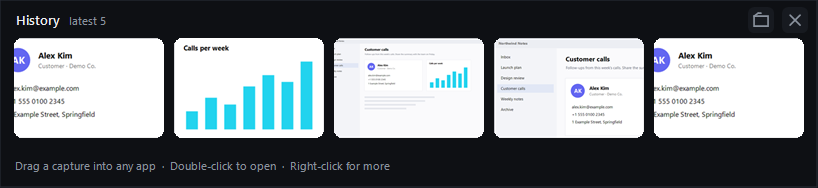
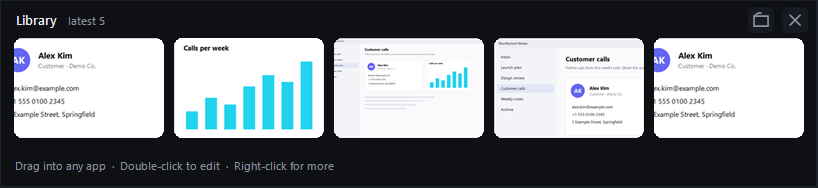
GOCLIP 1.4.0 - one window at a time

Changed region(s): [[0.0306, 0.8511, 0.489, 0.9309], [0.0306, 0.0798, 0.1528, 0.1596]]

diff --git a/README.md b/README.md
@@ -15,11 +15,10 @@ Hover to find the frame. Click to capture.</p>
 - **Video with sound** — MP4 (H.264 + AAC). Record system audio, your microphone, or both. Pause, resume, stop or discard; the red frame and toolbar never show up in the video.
 - **Mosaic** — hide any number of areas in images and videos. In videos, set a start and end for each area, and let it follow moving content.
 - **Full screen fast** — top edge = that monitor, Shift + top edge = all displays.
-- **Library & history** — your latest captures sit in the main window and in a strip after each capture; drag them straight into other apps. Keep 5 (or up to 50), older ones recycled automatically.
+- **One window at a time** — after a capture only the Library strip appears: drag a capture into any app, double‑click to edit, close the editor to return. Let it close by itself after a set time, or close it yourself to get the main window. Keep 5 captures (or up to 50); older ones are recycled automatically.
 - **Crop** — Free, 1:1, 4:3, 3:2, 16:9, 9:16, 4:5.
 - **Save anywhere** — This PC, Google Drive, OneDrive, Dropbox, iCloud Drive, Box, a NAS or any folder.
 - **Share** — Windows share, email, Gmail, Outlook.com, X, Facebook, LinkedIn, Threads, Bluesky.
-- **Preview your way** — keep the preview open, or let it fade out after 0–5 seconds.
 - **Your shortcuts** — PrtScn by default; set any key combination you like.
 - **English · 日本語 · Español** — switch the display language any time.
 - **Tiny and portable** — a single ~0.6 MB `.exe`. No installer, no account, no ads, no watermark.
@@ -34,15 +33,15 @@ Hover to find the frame. Click to capture.</p>
 
 <p align="center"><img src="docs/full-screen.png" width="820" alt="Top edge selects the full screen"></p>
 
-**A library you can drag from.** Your latest captures stay one drag away from any app, chat, e-mail or folder — from the LIBRARY row in the main window, or from the strip that appears after each capture. Keep as many as you like (5 by default); older ones go to the Recycle Bin.
+**A library you can drag from.** After each capture only this strip appears. Drag a capture into any app, chat, e-mail or folder; double‑click to edit it (the strip steps aside, and comes back — with your edit marked — when you close the editor). Under **HISTORY › Library window** choose *Keep open* or *Auto close* after 0–5 s; hovering keeps it open. Close it yourself and the main window appears. Keep as many captures as you like (5 by default); older ones go to the Recycle Bin.
 
-<p align="center"><img src="docs/history.png" width="700" alt="History strip"></p>
+<p align="center"><img src="docs/history.png" width="700" alt="Library strip"></p>
 
 **Crop with presets** — Free, 1:1, 4:3, 3:2, 16:9, 9:16, 4:5.
 
 <p align="center"><img src="docs/crop.png" width="700" alt="Crop with aspect presets"></p>
 
-**Hide what shouldn't be seen.** Drag over any number of areas in the preview.
+**Hide what shouldn't be seen.** Drag over any number of areas in the editor.
 
 <p align="center"><img src="docs/image-mosaic.png" width="620" alt="Mosaic on an image"></p>
 
@@ -50,7 +49,7 @@ Hover to find the frame. Click to capture.</p>
 
 <p align="center"><img src="docs/video-mosaic.png" width="820" alt="Video mosaic editor"></p>
 
-**Everything in one small window** — shortcuts, audio, storage, preview behaviour, language.
+**Everything in one small window** — shortcuts, audio, storage, library window, language.
 
 <p align="center"><img src="docs/launcher.png" width="340" alt="GOCLIP main window"></p>
 
